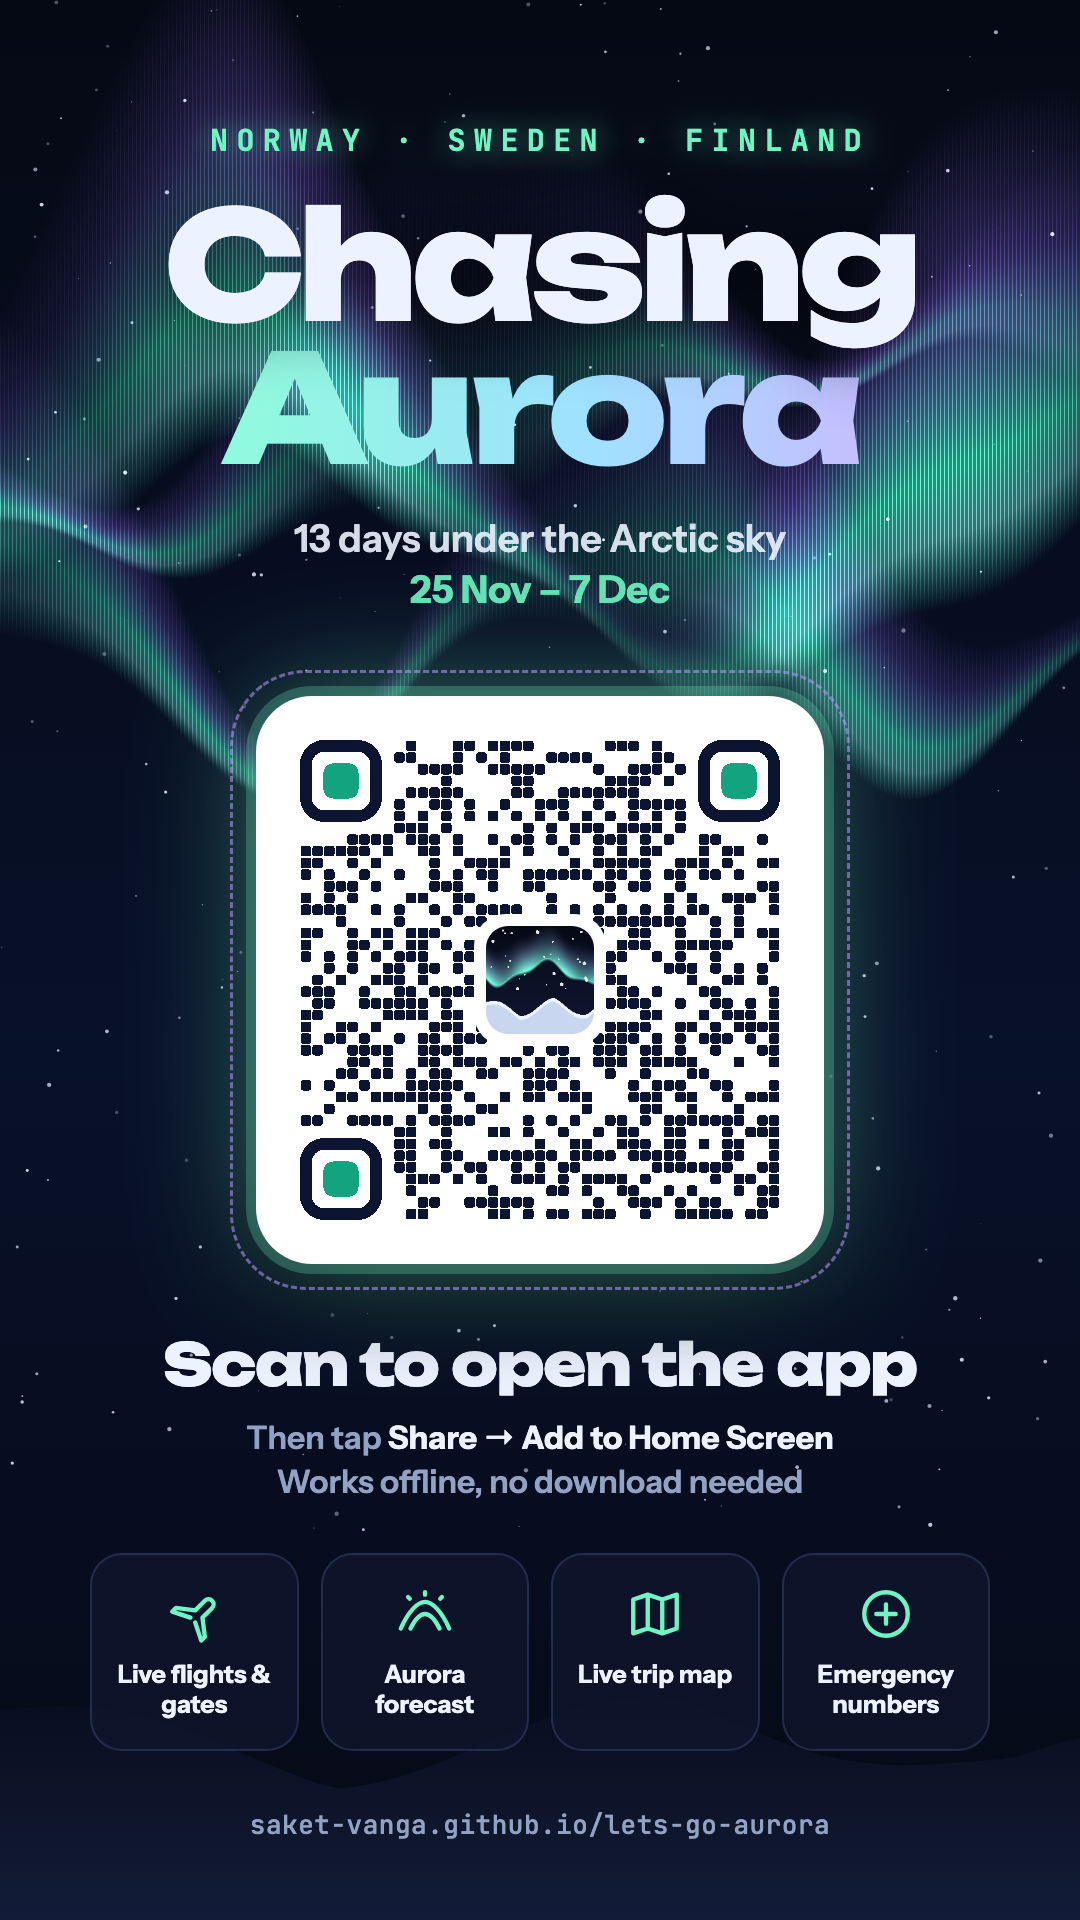
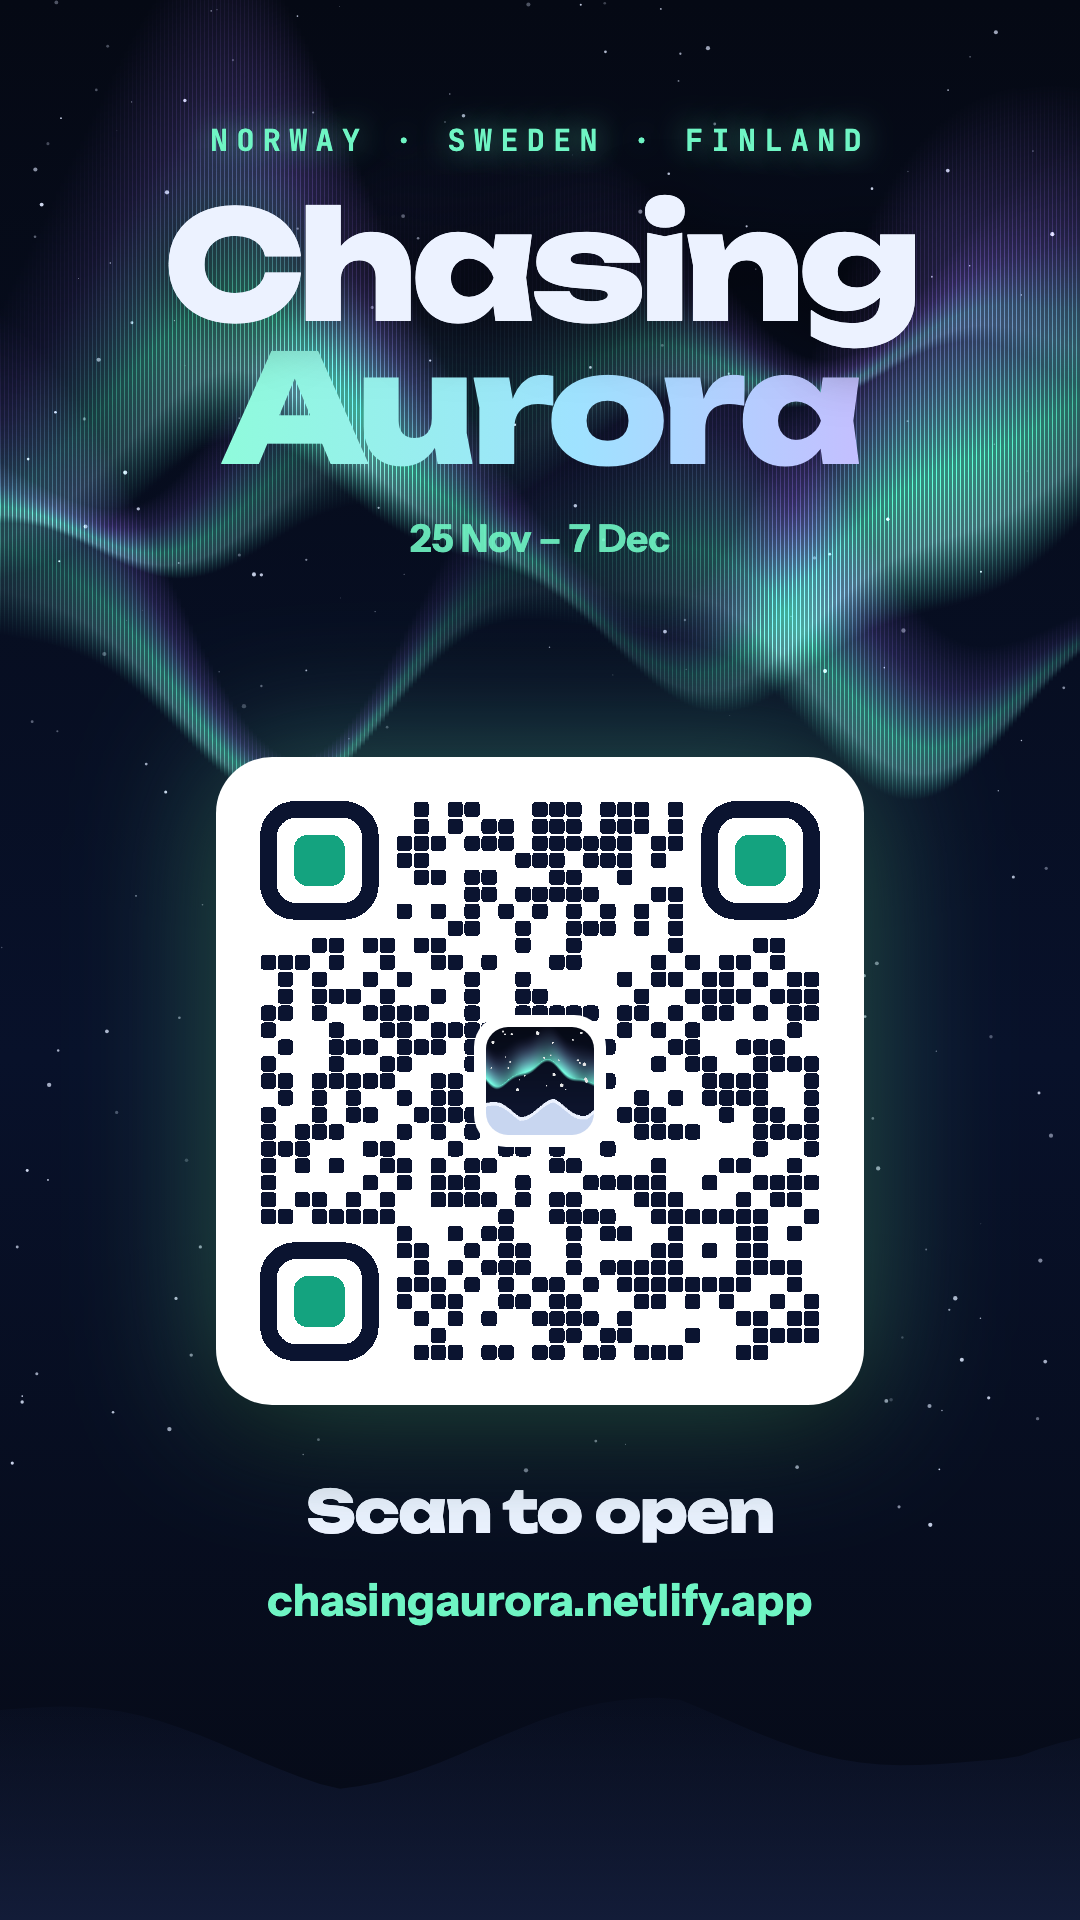
Simplify QR poster and point it at chasingaurora.netlify.app

diff --git a/promo/poster.html b/promo/poster.html
@@ -17,19 +17,18 @@
   h1 span{display:block;text-shadow:none;background:linear-gradient(90deg,#8dffd6,#9fe2ff 55%,#cbb8ff);-webkit-background-clip:text;background-clip:text;color:transparent}
   .sub{font:600 38px/1.35 "Instrument Sans";color:var(--snow);opacity:.9;margin-top:34px}
   .sub b{color:var(--aurora)}
-  .card{margin-top:80px;position:relative;padding:44px;border-radius:56px;background:#fff;box-shadow:0 0 0 10px rgba(111,245,196,.25),0 0 120px rgba(111,245,196,.45),0 40px 80px rgba(0,0,0,.6)}
-  .card::before{content:"";position:absolute;inset:-26px;border-radius:76px;border:3px dashed rgba(182,156,255,.55)}
-  #qr svg{display:block;width:480px;height:480px}
+  .card{margin-top:auto;position:relative;padding:44px;border-radius:56px;background:#fff;box-shadow:0 0 140px rgba(111,245,196,.35),0 40px 80px rgba(0,0,0,.6)}
+    #qr svg{display:block;width:560px;height:560px}
   .badge{position:absolute;left:50%;top:50%;width:132px;height:132px;margin:-66px 0 0 -66px;border-radius:32px;background:#fff;padding:12px}
   .badge img{width:100%;height:100%;border-radius:22px;display:block}
-  .scan{margin-top:64px;font:800 58px "Unbounded";letter-spacing:-.02em}
+  .scan{margin-top:70px;font:800 58px "Unbounded";letter-spacing:-.02em}
   .how{margin-top:16px;margin-bottom:48px;font:600 32px/1.4 "Instrument Sans";color:var(--mist)}
   .how b{color:var(--snow)}
   .feats{display:grid;grid-template-columns:repeat(4,1fr);gap:22px;width:100%;margin-top:auto}
   .f{display:flex;flex-direction:column;align-items:center;gap:16px;padding:30px 10px;border-radius:32px;background:rgba(16,24,48,.6);border:2px solid rgba(150,180,255,.16)}
   .f svg{width:58px;height:58px;fill:none;stroke:var(--aurora);stroke-width:1.8;stroke-linecap:round;stroke-linejoin:round}
   .f span{font:700 25px/1.2 "Instrument Sans"}
-  .url{margin-top:56px;font:500 26px "JetBrains Mono",monospace;color:var(--mist);letter-spacing:.02em}
+  .url{margin-top:26px;margin-bottom:auto;font:700 44px "Instrument Sans";color:var(--aurora);letter-spacing:.01em}
 </style>
 </head>
 <body>
@@ -37,23 +36,15 @@
 <div class="wrap">
   <div class="eyebrow">Norway · Sweden · Finland</div>
   <h1>Chasing<span>Aurora</span></h1>
-  <p class="sub">13 days under the Arctic sky<br><b>25 Nov – 7 Dec</b></p>
+  <p class="sub"><b>25 Nov – 7 Dec</b></p>
 
   <div class="card"><div id="qr"></div><div class="badge"><img src="../docs/icon-180.png" alt=""></div></div>
 
-  <div class="scan">Scan to open the app</div>
-  <p class="how">Then tap <b>Share → Add to Home Screen</b><br>Works offline, no download needed</p>
-
-  <div class="feats">
-    <div class="f"><svg viewBox="0 0 24 24"><path d="M10.5 13.5 3 11l1.5-1.5 8 1 4-4a2 2 0 0 1 3 3l-4 4 1 8L15 23l-2.5-7.5"/></svg><span>Live flights &amp; gates</span></div>
-    <div class="f"><svg viewBox="0 0 24 24"><path d="M2 18c3-7 7-11 10-11s7 4 10 11"/><path d="M6 18c2-4 4-6 6-6s4 2 6 6"/><path d="M12 3v1M5 5l.7.7M19 5l-.7.7"/></svg><span>Aurora forecast</span></div>
-    <div class="f"><svg viewBox="0 0 24 24"><path d="M9 4 3 6v14l6-2 6 2 6-2V4l-6 2-6-2zM9 4v14M15 6v14"/></svg><span>Live trip map</span></div>
-    <div class="f"><svg viewBox="0 0 24 24"><circle cx="12" cy="12" r="9"/><path d="M12 8v8M8 12h8"/></svg><span>Emergency numbers</span></div>
-  </div>
-  <div class="url">saket-vanga.github.io/lets-go-aurora</div>
+  <div class="scan">Scan to open</div>
+  <div class="url">chasingaurora.netlify.app</div>
 </div>
 <script>
-const URL_='https://saket-vanga.github.io/lets-go-aurora/';
+const URL_='https://chasingaurora.netlify.app';
 const q=qrcode(0,'H');q.addData(URL_);q.make();
 const n=q.getModuleCount(),c=10,m=0,size=n*c;
 let svg='<svg xmlns="http://www.w3.org/2000/svg" viewBox="0 0 '+size+' '+size+'" shape-rendering="crispEdges"><rect width="100%" height="100%" fill="#fff"/>';
